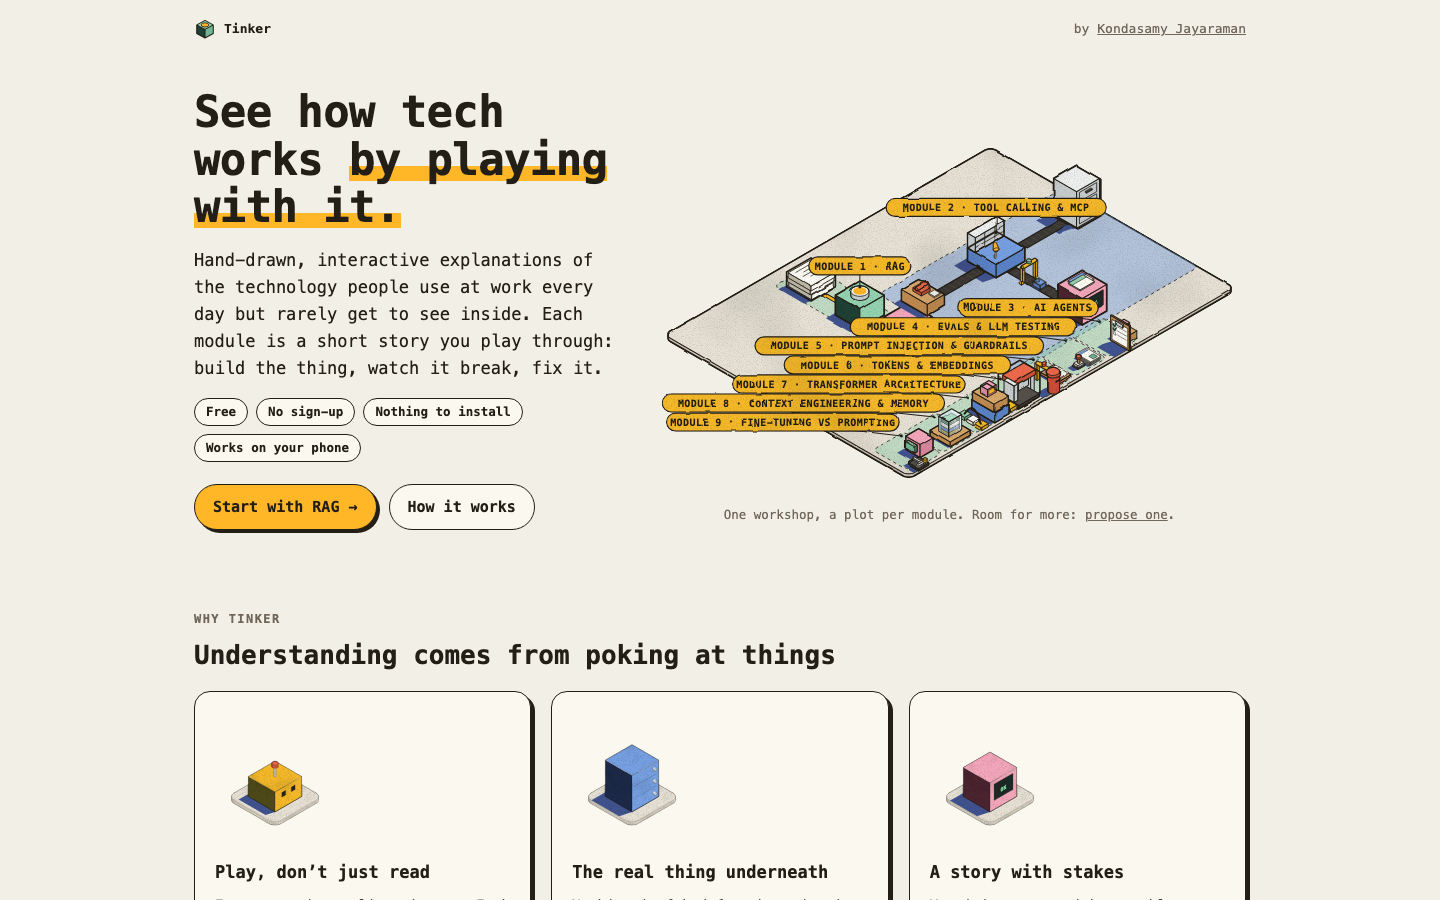
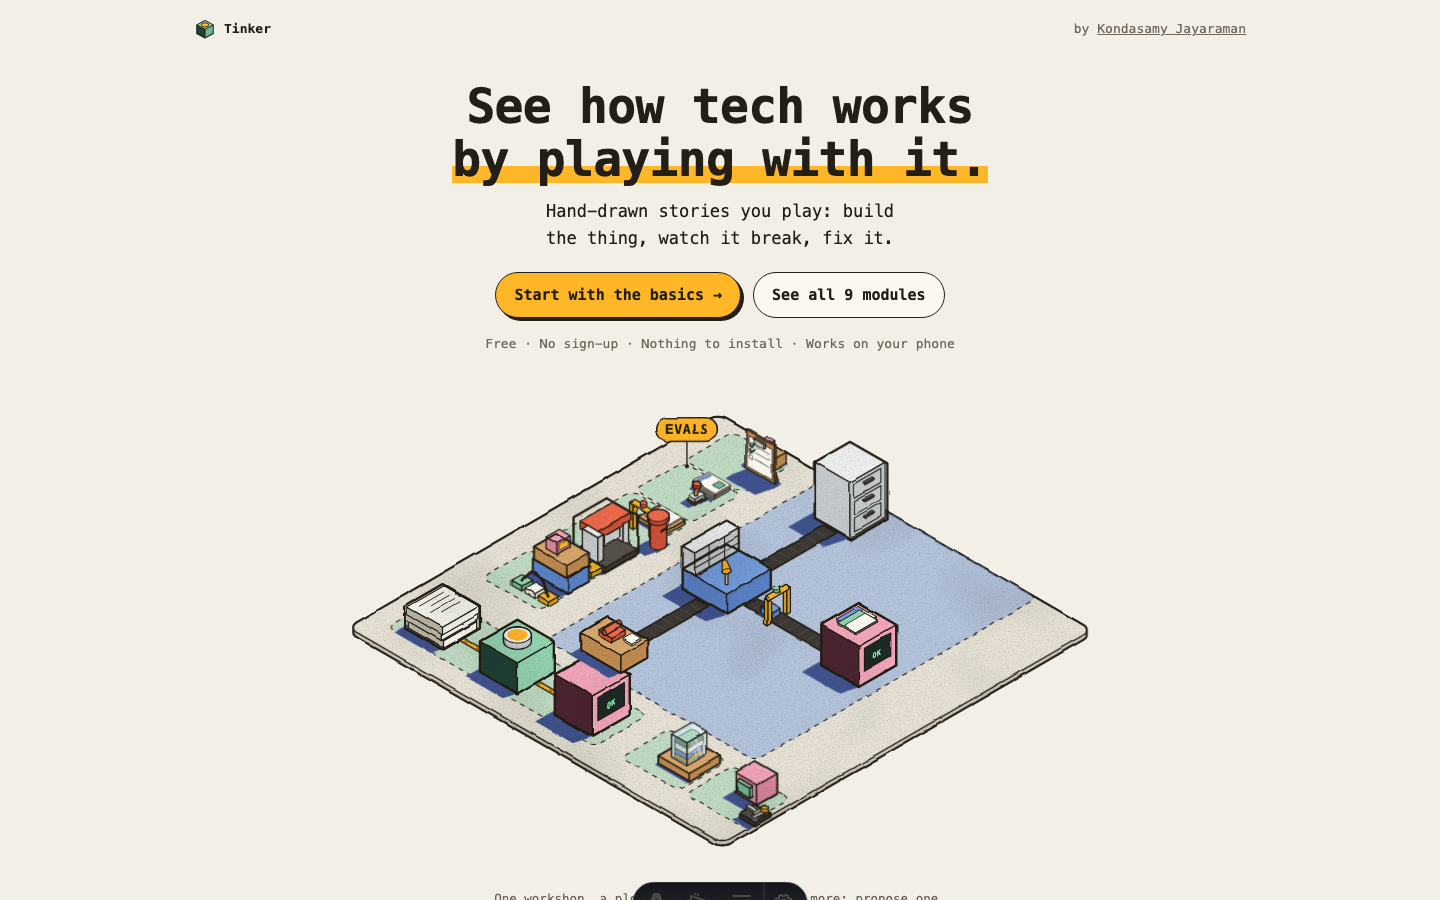
feat(home): a decluttered, animated workshop hero and picture-card catalogue
The hero is centred over the workshop. Plots fill the board's empty ground, and a wave hops each plot and shows its short, lit pill only on its turn. RAG's wire carries a current, the press drops tiles, and the clipboard ticks; none of it moves with reduced motion. Module cards are a two-column grid with the picture on top. The main button starts with the basics, then moves on to the next unfinished module.

diff --git a/src/components/scenes/heroScene.ts b/src/components/scenes/heroScene.ts
@@ -1,7 +1,7 @@
 // The home hero: Tinker as one workshop, a plot per module on a single board. RAG's pipeline (docs → retriever → model,
 // wired and lit), tool calling's back office (an envelope riding a belt), then a grid of plots: one per later live module,
 // then a roped-off building plot for each planned module (a crate and traffic cones: open for someone to build). The plots
-// run in one staircase down the front-right edge, so each name pill gets its own row; the board grows with the registry.
+// fill the board's empty ground: a column beside the back office, then rows in front of it; the board grows with the registry.
 import type { SceneCtx, Board } from '../../lib/iso/IsoStage';
 import { BH, ACC, renderers, blockShadow, boxCorners, esc } from '../../lib/iso/blocks';
 import { INK, PALS, CERAMIC, WOOD, pd, on, PZ, rrUV, byDepth, box, rod, line, fill, castShadow, toneI, tag } from '../../lib/iso/core.js';
@@ -17,16 +17,15 @@ import { SEQ_MSGS } from './toolSequence';
 import { MODULES } from '../../lib/modules';
 import type { Msg } from '../../lib/iso/flat';
 
-// the back office at the back; RAG along the front-left edge and the building sites along the front-right one, so
-// nothing tall stands in front of a plot
+// the back office at the back; RAG along the front-left edge; plots in the ground the two leave empty
 const RAG_Y = 294, RAG_X = [44, 112, 180];
-const PLOT_X = 306, PLOT_Y0 = 150, STEP = 46;
-/** slot i's centre, one step further down the front-right edge per slot */
-const slotXY = (i: number): [number, number] => [PLOT_X, PLOT_Y0 + STEP * i];
+const COLUMN = 5, STEP = 46;
+/** slot i's centre: down the column left of the back office, then two to a row right of RAG, row by row to the front */
+const slotXY = (i: number): [number, number] => i < COLUMN ? [44, 30 + STEP * i] : [248 + 58 * ((i - COLUMN) % 2), 292 + STEP * Math.floor((i - COLUMN) / 2)];
 /** slot i's mat on the board, [x0, y0, x1, y1] */
 export const plotAt = (i: number): Board => { const [x, y] = slotXY(i); return [x - 22, y - 22, x + 30, y + 22]; };
 /** the board for `slots` plots: at least deep enough for RAG's strip */
-export const heroBoard = (slots: number): Board => [0, 0, 340, Math.max(336, plotAt(slots - 1)[3] + 6)];
+export const heroBoard = (slots: number): Board => [0, 0, 340, Math.max(336, ...Array.from({ length: slots }, (_, i) => plotAt(i)[3] + 6))];
 
 /** a plot's floor: a tinted mat with a dashed edge */
 const mat = (x0: number, y0: number, x1: number, y1: number, col: string) => {
@@ -41,6 +40,9 @@ const crate = (x: number, y: number) => box(x - 9, y - 9, BH, x + 9, y + 9, BH +
 const barrier = (x: number, y: number) => box(x - 1.5, y - 12, BH, x + 1.5, y - 9, BH + 9, CERAMIC, toneI, .8) + box(x - 1.5, y + 9, BH, x + 1.5, y + 12, BH + 9, CERAMIC, toneI, .8)
   + rod([x, y - 12, BH + 9], [x, y + 12, BH + 9], 1.6, PALS.mustard) + rod([x, y - 4, BH + 9], [x, y + 2, BH + 9], 1.65, INK);
 
+/** a live plot's drawing (or its pill) in the home page's wave, which hops plot i, then i + 1, and shows the pill only on its turn */
+const hop = (i: number, svg: string) => `<g class="hero-hop" style="--i:${i}">${svg}</g>`;
+
 /** a plot's pill text (short: plots sit one step apart), and for a live module after the second its drawing, centred on (x, y) */
 export interface HeroPlot { name: string; draw?: (x: number, y: number, ctx: SceneCtx) => string }
 /** live: RAG's plot, tool calling's, then any later live modules; planned: one building site each; ride: the envelope on the belt */
@@ -51,12 +53,13 @@ export const heroScene = ({ live, planned, ride }: { live: HeroPlot[]; planned: 
   // RAG: three blocks down the plot, joined by a lit wire
   s += RAG_X.map((x, i) => blockShadow((['docs', 'retriever', 'llm'] as const)[i], x, RAG_Y, top)).join('');
   const d = pd([[RAG_X[0], RAG_Y, BH + .3], [RAG_X[2], RAG_Y, BH + .3]], false);
-  s += `<path d="${d}" fill="none" stroke="${INK}" stroke-width="4.2" stroke-linecap="round"/><path d="${d}" fill="none" stroke="${ACC}" stroke-width="2.2" stroke-linecap="round"/>`;
-  s += byDepth((['docs', 'retriever', 'llm'] as const).map((t, i) => ({ at: [RAG_X[i], RAG_Y, 0], svg: renderers[t]({ x: RAG_X[i], y: RAG_Y, lit: true, state: 'ok' }) })));
+  s += `<path d="${d}" fill="none" stroke="${INK}" stroke-width="4.2" stroke-linecap="round"/><path d="${d}" fill="none" stroke="${ACC}" stroke-width="2.2" stroke-linecap="round"/>`
+    + `<path class="hero-flow" d="${d}" fill="none" stroke="${INK}" stroke-width="1.1" stroke-linecap="round" stroke-dasharray="2 9" opacity=".55"/>`;
+  s += hop(0, byDepth((['docs', 'retriever', 'llm'] as const).map((t, i) => ({ at: [RAG_X[i], RAG_Y, 0], svg: renderers[t]({ x: RAG_X[i], y: RAG_Y, lit: true, state: 'ok' }) }))));
   // tool calling: the back office, its stations unnamed (the plot's pill names the module)
   s += officeScene({ msgs: ride, tools: 2, schema: true, names: false })(ctx);
   // later live modules: their own drawing
-  s += later.map((p, i) => p.draw?.(...slotXY(i), ctx) ?? '').join('');
+  s += later.map((p, i) => hop(i + 2, p.draw?.(...slotXY(i), ctx) ?? '')).join('');
   // planned modules: building plots
   const plots = planned.map((_, j) => {
     const [x, y] = slotXY(later.length + j);
@@ -70,12 +73,11 @@ export const heroScene = ({ live, planned, ride }: { live: HeroPlot[]; planned: 
   }).join('');
   s += plots;
   const pill = (p: number[], text: string, onn: boolean, dy = -20, dx = 0) => `<g class="block-tag" aria-hidden="true" pointer-events="none">${tag(p, dx, dy, esc(text.toUpperCase()), onn, scale)}</g>`;
-  // staircase pills end at their leader and run left (half tag()'s width, in its units), so the plot's drawing to the leader's right stays in view
-  const left = (text: string) => -((esc(text.toUpperCase()).length * .62 + 1.5) * 8.6 / 2 + 2); // tag() sizes the escaped text ('&' is '&amp;')
-  const at = (i: number) => { const [x, y] = slotXY(i); return [x - 4, y, BH + 15]; };
-  return s + pill([RAG_X[1], RAG_Y, BH + 34], live[0].name, true, -18) + pill([142, 134, BH + 34], live[1].name, true, -22)
-    + later.map((m, i) => pill(at(i), m.name, true, -12, left(m.name))).join('')
-    + planned.map((m, j) => pill(at(later.length + j), `Soon: ${m.name}`, false, -12, left(`Soon: ${m.name}`))).join('');
+  // a pill floats above its plot's centre: on the home page only one shows at a time, so they never crowd
+  const at = (i: number) => { const [x, y] = slotXY(i); return [x + 4, y, BH + 15]; };
+  return s + hop(0, pill([RAG_X[1], RAG_Y, BH + 34], live[0].name, false, -18)) + hop(1, pill([142, 134, BH + 34], live[1].name, false, -22))
+    + later.map((m, i) => hop(i + 2, pill(at(i), m.name, false, -24))).join('')
+    + planned.map((m, j) => pill(at(later.length + j), `Soon: ${m.name}`, false, -24)).join('');
 };
 
 /** later live modules' plots, by module id: agents is a small desk with its plan on a clipboard; evals a stack of graded test cards and a stamp;
@@ -99,9 +101,9 @@ const DRAW: Record<string, HeroPlot['draw']> = {
   'fine-tuning': (x, y, { top }) => benchPlot(x + 14, y - 4, top),
 };
 const LIVE = MODULES.filter(m => m.status === 'live'), PLANNED = MODULES.filter(m => m.status === 'planned');
-/** the home page's picture (and its share image), from the registry: the model's call riding to the host */
+/** the home page's share image, from the registry: the model's call riding to the host */
 export const HERO_BOARD = heroBoard(LIVE.length - 2 + PLANNED.length);
-export const HOME_HERO = heroScene({ live: LIVE.map((m, i) => ({ name: `Module ${i + 1} · ${m.title}`, draw: DRAW[m.id] })), planned: PLANNED.map(m => ({ name: m.id.replace(/-/g, ' ') })), ride: SEQ_MSGS.slice(0, 3) });
+export const HOME_HERO = heroScene({ live: LIVE.map(m => ({ name: m.id.replace(/-/g, ' '), draw: DRAW[m.id] })), planned: PLANNED.map(m => ({ name: m.id.replace(/-/g, ' ') })), ride: SEQ_MSGS.slice(0, 3) });
 /** the hero's accessible label: building sites are named only while some module is planned */
 export const heroLabel = (live: string[], planned: string[]) =>
   `Tinker as one workshop with a plot per module: ${live.join(' and ')}, live${planned.length ? `, and building sites for ${planned.join(', ')}` : ''}.`;

diff --git a/tests/e2e/catalogue.spec.ts b/tests/e2e/catalogue.spec.ts
@@ -68,6 +68,21 @@ test('with only a later chapter done, Continue goes to chapter 1 and says so', a
   await expect(go).toHaveText('Continue RAG: chapter 1 →');
 });
 
+test('a first visit starts with the basics; a finished module hands Continue to the next unfinished one', async ({ page }) => {
+  await page.goto('/');
+  const go = page.locator('[data-continue]');
+  await expect(go).toHaveText('Start with the basics →');
+  await expect(go).toHaveAttribute('href', '/rag/');
+  const [rag, next] = MODULES.filter(m => m.status === 'live');
+  await page.evaluate(ids => {
+    localStorage.setItem('rag-progress-v1', JSON.stringify({ done: ids, saved: {} }));
+    localStorage.setItem('tinker-last-module', 'rag');
+  }, rag.chapters.map(c => c.id));
+  await page.reload();
+  await expect(go).toHaveAttribute('href', `/${next.id}/`);
+  await expect(go).toHaveText(`Start ${next.title} →`);
+});
+
 test('with no storage, Continue opens the RAG intro', async ({ page }) => {
   await page.addInitScript(() => Object.defineProperty(window, 'localStorage', { get() { throw new Error('blocked'); } }));
   await page.goto('/');

diff --git a/tests/unit/hero.test.ts b/tests/unit/hero.test.ts
@@ -13,7 +13,7 @@ const upper = (s: string) => s.toUpperCase().replace(/&/g, '&amp;');
 describe('home hero', () => {
   it('has one name pill per module, each from the registry, and no NaN coordinates', () => {
     const svg = draw();
-    for (const m of MODULES.filter(m => m.status === 'live')) expect(svg).toContain(upper(m.title));
+    for (const m of MODULES.filter(m => m.status === 'live')) expect(svg).toContain(upper(m.id.replace(/-/g, ' ')));
     for (const m of MODULES.filter(m => m.status === 'planned')) expect(svg).toContain(`SOON: ${m.id.replace(/-/g, ' ').toUpperCase()}`);
     expect(svg).not.toMatch(/NaN/);
   });
